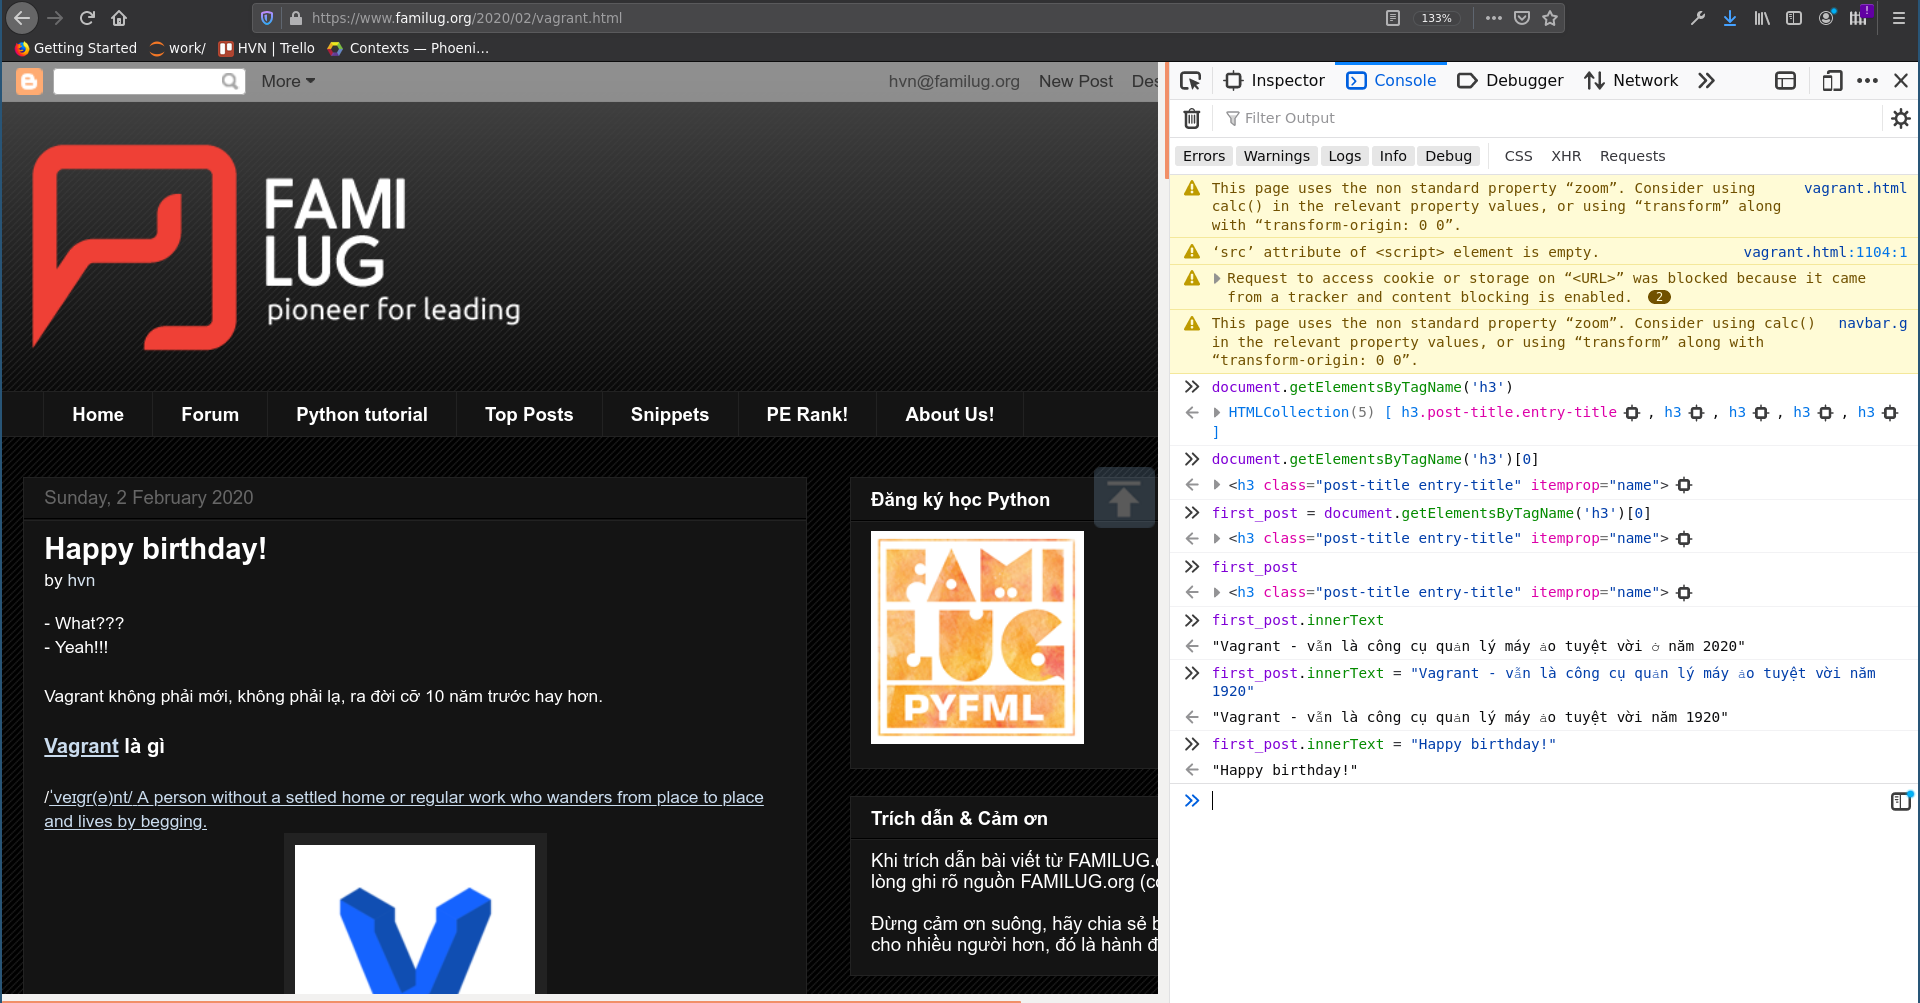
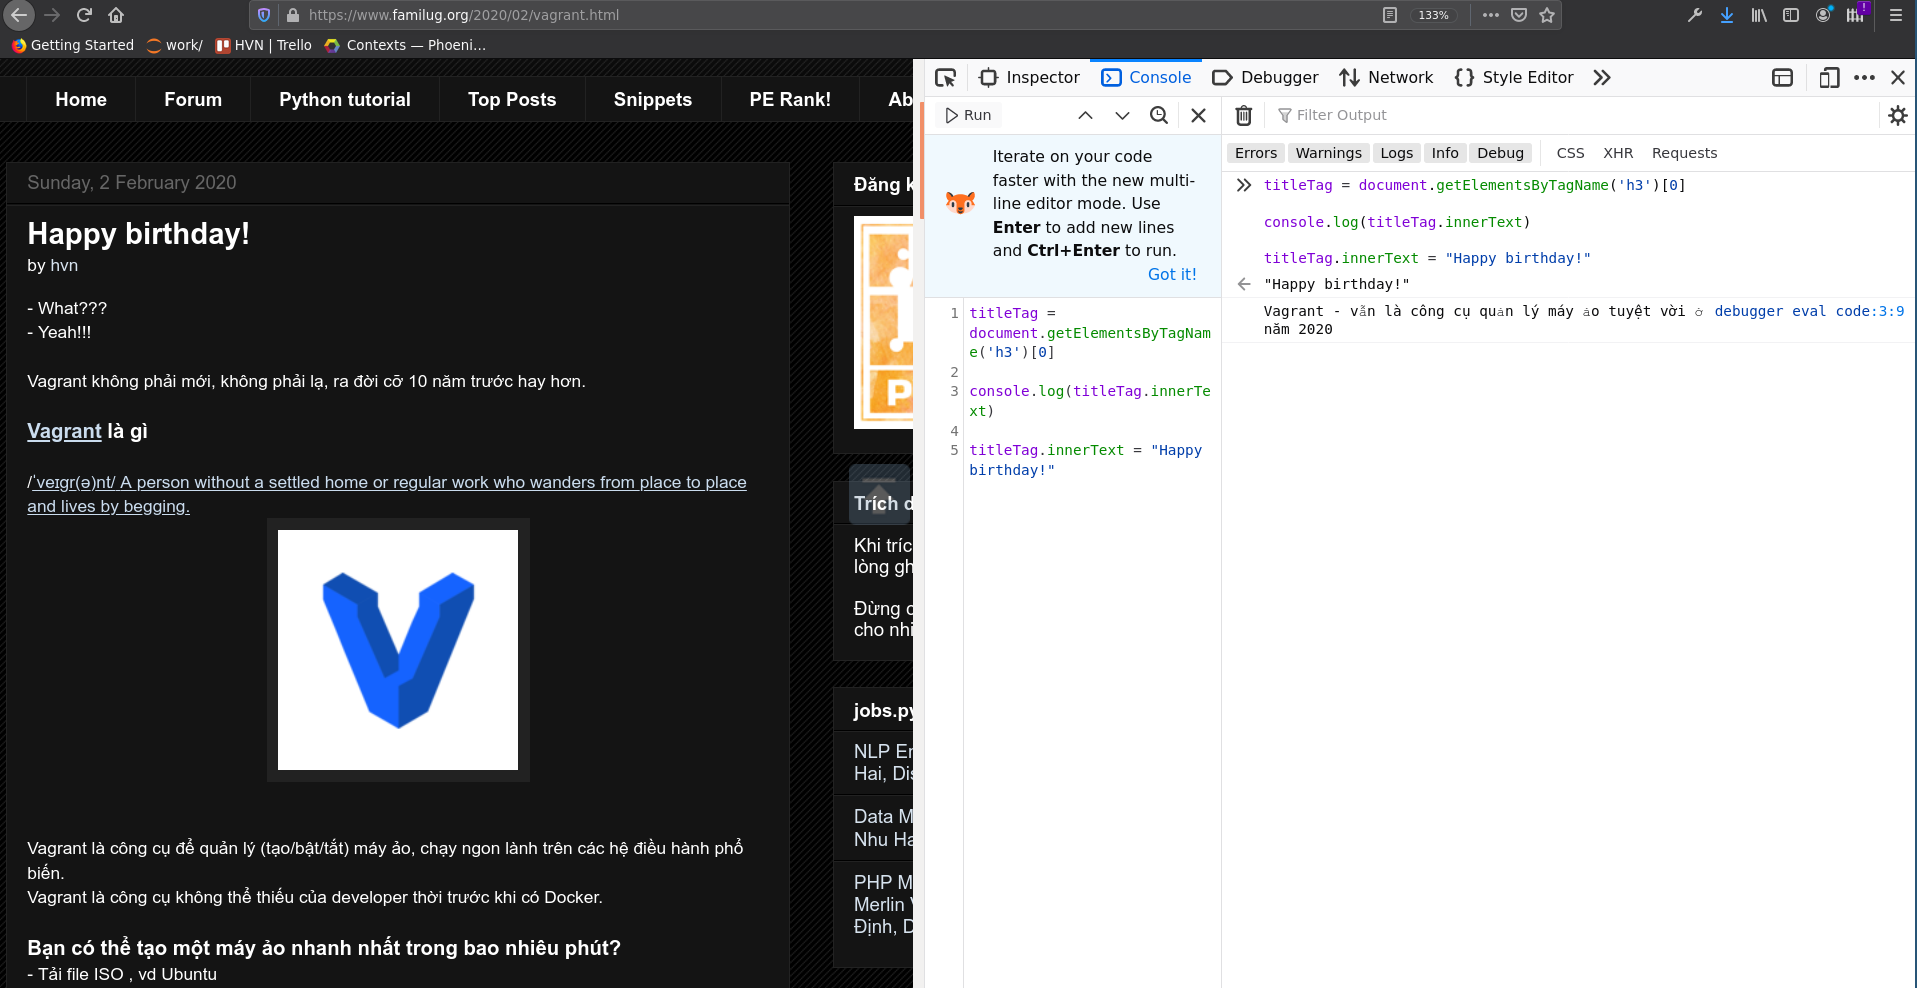
Generate Pelican site

diff --git a/article/jsdom/index.html b/article/jsdom/index.html
@@ -70,7 +70,7 @@ DOM là programming interface cho HTML (và XML) documents.</p>
 <h3>Truy cập &amp; thay đổi DOM trên trình duyệt</h3>
 <p>Mở một web site ra, rồi bật web console lên, hoặc đọc bài <a href="https://www.familug.org/2017/04/hoc-javascript-1.html">này</a> nếu chưa biết cách.</p>
 <h3>Document, Window &amp; DOM Elements</h3>
-<p>Mỗi web page là một document, mỗi "cửa sổ" (thời nay là 1 tab trình duyệt), đại diện cho cửa sổ đó. Mỗi document là một tree, với các node gọi là các Element.</p>
+<p>Mỗi web page là một <code>document</code>, mỗi "cửa sổ" (thời nay là 1 tab trình duyệt), là một <code>window</code>, đại diện cho cửa sổ đó. Mỗi document là một tree, với các node gọi là các Element.</p>
 <p>Gõ vào web console <code>document</code>, đây chính là DOM của web page đang truy cập, thông qua object này, ta có thể làm đủ trò với những gì đang hiện trên trình duyệt.</p>
 <h3>Get element</h3>
 <p>Có vài cách để truy cập element, trong đó kể tới 2 methods:</p>
@@ -79,8 +79,17 @@ DOM là programming interface cho HTML (và XML) documents.</p>
 <li><code>document.querySelectorAll</code>: lấy cá elements theo <a href="https://developer.mozilla.org/en-US/docs/Web/CSS/CSS_Selectors">CSS selectors</a>.</li>
 </ul>
 <p><code>innerText</code> là thuộc tính (attribute) của một element, chứa nội dung text của nó. Ví dụ sau sẽ thay đổi tiêu đề của bài viết, đây là cách làm tin giả rồi chụp mành hình, không cần dùng PhotoShop:</p>
+<p>Vào web page: <a href="https://www.familug.org/2020/02/vagrant.html">https://www.familug.org/2020/02/vagrant.html</a></p>
 <p><img alt="Trước" src="http://pp.pymi.vn/images/vagrant.png"></p>
 <p>Sau khi "hack"</p>
+<div class="highlight"><pre><span></span><span class="nx">titleTag</span> <span class="o">=</span> <span class="nb">document</span><span class="p">.</span><span class="nx">getElementsByTagName</span><span class="p">(</span><span class="s1">&#39;h3&#39;</span><span class="p">)[</span><span class="mi">0</span><span class="p">]</span>
+
+<span class="nx">console</span><span class="p">.</span><span class="nx">log</span><span class="p">(</span><span class="nx">titleTag</span><span class="p">.</span><span class="nx">innerText</span><span class="p">)</span>
+
+<span class="nx">titleTag</span><span class="p">.</span><span class="nx">innerText</span> <span class="o">=</span> <span class="s2">&quot;Happy birthday!&quot;</span>
+</pre></div>
+
+
 <p><img alt="Hack FAMILUG" src="http://pp.pymi.vn/images/happybirthday.png"></p>
 <h3>Query element</h3>
 <p>Thay vì dùng HTML tags, có thể dùng CSS class để tìm ra các element, ví dụ sau đây tìm các tin tuyển dụng trên trang <a href="https://news.ycombinator.com/item?id=22225314">HackerNews</a> có chứa từ khóa Python và Remote, rồi hiển thị lên màn hình - có thể xem như crawl dữ liệu ngay trên trình duyệt:</p>
